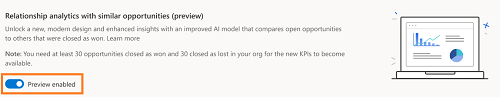
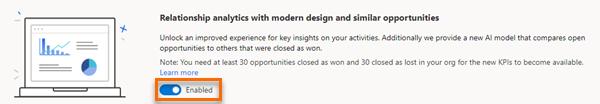
RA updated for GA

diff --git a/ai-docs/sales/configure-relationship-analytics.md b/ai-docs/sales/configure-relationship-analytics.md
@@ -1,6 +1,6 @@
 ---
-title: "Configure Relationship analytics for Dynamics 365 Sales Insights | MicrosoftDocs"
-description: "Learn how to configure Relationship analytics for Sales Insights"
+title: "Configure Relationship analytics and health for Dynamics 365 Sales Insights | MicrosoftDocs"
+description: "Learn how to configure Relationship analytics and health for Sales Insights"
 ms.date: 10/01/2019
 ms.service: crm-online
 ms.custom: 
@@ -16,7 +16,7 @@ caps.latest.revision: 01
 topic-status: Drafting
 ---
 
-# Configure relationship analytics
+# Configure relationship analytics and health
 
 Relationship analytics provides graphical representation of KPIs and activity histories for any contact, opportunity, lead, or account to the users. 
 
@@ -29,33 +29,36 @@ To configure relationship analytics, follow these steps:
     > [!div class="mx-imgBorder"]
     > ![Select Sales Insights settings option](media/si-admin-change-area-sales-insights-settings.png "Select Sales Insights settings option")
 
-3. On the site map, select **Relationship analytics** under **Connection insights**.
-
-    > [!TIP]
-    > Alternatively, in the **Sales Insights settings** page, select **Manage** from the **Relationship analytics** section to go to configuration page.
+3. On the site map, under **Relationship insights**, select **Relationship analytics**.
 
     The configuration page opens.
 
-4. Select the toggle to enable relationship analytics for your organization.
+4. Select the toggle to enable relationship analytics for your organization and then select **Save**.
 
     > [!div class="mx-imgBorder"]
     > ![Enable the relationship assistant for your organization](media/si-admin-relationship-analytics-enable-in-organization.png "Enable the relationship assistant for organization")
 
-    Relationship analytics is enabled in your organization, and you can configure the parameters as required.
+    >[!NOTE]
+    >**Data sources** and **Relationship analytics with modern design and similar opportunities** are enabled by default.
+
+    The application takes few seconds to enable relationship analytics for your organization. After the relationship analytics is enabled, you can configure the parameters as required.
 
 <a name="configure-similar-opportunities-preview"></a>
 
-5. (Optional) To enable the preview to view similar opportunities, under **Similar opportunities** on the **Relationship analytics** tab for opportunities, turn on the **Preview enabled** toggle.
+5. To view similar opportunities, under the **Relationship analytics with modern design and similar opportunities** section, turn on the **Enabled** toggle. By default, this option is enabled when you enable relationship analytics for your organization.
+
+    > [!div class="mx-imgBorder"]
+    > ![Enable to view similar opportunities](media/relationship-analytics-enable-preview-similar-opportunities.png "Enable to view similar opportunities")
 
     By enabling this option, users in your organization can see an improved relationship analytics tab for opportunities. The tab displays customer interaction KPIs along with suggestions calculated from similar won opportunities through AI-driven models.
 
+    If you don't want to view the similar opportunites in your organization, you can select the toggle and disable. The older version of relationship analytics is available for users.
+
+    For newly configured organizations, the enhanced relationship analytics is available by default for contacts, opportunities, leads, and accounts.
+
     >[!NOTE]
-    >- The preview feature is available only for the Opportunity entity.
     >- You must have at least 30 won and 30 lost opportunities to compare with existing opportunities.
     >- To understand how users use this feature, see [View similar opportunities](relationship-analytics.md#relationship-analytics-with-similar-opportunities).
-
-    > [!div class="mx-imgBorder"]
-    > ![Enable preview to view similar opportunities](media/relationship-analytics-enable-preview-similar-opportunities.png "Enable preview to view similar opportunities")
 
 6. To show the relationship health score in opportunities, views, and charts, set the toggle to **On**.
 
@@ -67,7 +70,7 @@ To configure relationship analytics, follow these steps:
 
 7. Adjust the importance of activities of different types as they contribute to the relationship health score.
 
-    Businesses place different emphasis on the type of communication used with customers.The activities includes, Emails, Meetings, Phone calls, and Tasks. 
+    Businesses place different emphasis on the type of communication used with customers. The activities include, Emails, Meetings, Phone calls, and Tasks. 
     
     > [!div class="mx-imgBorder"]
     > ![Adjust activity influence for relationship health](media/relationship-analytics-relationship-health-adjust-activity.png "Adjust activity influence for relationship health")
@@ -83,9 +86,11 @@ To configure relationship analytics, follow these steps:
 
    Relationship analytics is ready to use in your organization.
 
-Enable the **Dynamics 365 Sales Insights – Analytics** option in the admin center to collect valuable information regarding communications&mdash;such as emails and meetings&mdash;for users in your organization from Exchange server. This data is used in analytics features for salespeople and sales managers. When you enable this, the **Exchange Data** option on the relationship analytics configuration page is automatically selected. 
+## Allow to collect information from Exchange server 
 
-To enable Dynamics 365 Sales Insights – Analytics, follow these steps: 
+Enable the **Dynamics 365 Sales Insights – Analytics** option in the admin center to collect valuable information about communications&mdash;such as emails and meetings&mdash;for users in your organization from Exchange server. This data is used in analytics features for salespeople and sales managers. When you enable, the **Exchange Data** option on the relationship analytics configuration page is automatically selected. 
+
+Follow these steps: 
 
 1. Go to the **Admin** center.
 

diff --git a/ai-docs/sales/relationship-analytics.md b/ai-docs/sales/relationship-analytics.md
@@ -116,18 +116,11 @@ You can view complete relationship analytics for an individual record, including
 
 ## Relationship analytics with similar opportunities 
 
-[!INCLUDE [cc-beta-prerelease-disclaimer](../includes/cc-beta-prerelease-disclaimer.md)]
-
-> [!IMPORTANT]
-> - [!INCLUDE[cc_preview_features_definition](../includes/cc-preview-features-definition.md)]  
-> - [!INCLUDE[cc_preview_features_expect_changes](../includes/cc-preview-features-expect-changes.md)]
-> - Microsoft doesn't provide support for this preview feature. Microsoft Technical Support won’t be able to help you with issues or questions. Preview features aren't meant for production use and are subject to a separate [supplemental terms of use](https://go.microsoft.com/fwlink/p/?linkid=870960).
-
-Enhanced relationship analytics is provided to you as a preview. An administrator must enable the feature before you can start using it. More information: [step 5 in Configure Relationship analytics](configure-relationship-analytics.md#configure-similar-opportunities-preview)
-
 The current relationship analytics provides information such as graphs, KPIs, email interaction history, full activity history, and relationship health. This information doesn't offer a comparison with similar deals that were won, what's working, or what isn't working in the deal's engagement practices.
 
 As a seller, it's important for you to understand what's working better for a deal and learn about the best engagement practices from similar deals that were won in the past. The enhanced relationship analytics displays comparable information on the KPIs, graphs, activity history, and relationship health with similar deals that were won. Also, a list of similar deals that were won is displayed at the bottom. By opening the deals, you can learn what has worked and what didn't work, and implement these learnings in the deal you're currently trying to close.
+
+An administrator must enable the feature before you can start using it. More information: [step 5 in Configure relationship analytics](configure-relationship-analytics.md#configure-similar-opportunities-preview)
 
 The following screen is an example of enhanced relationship analytics:
 
@@ -220,14 +213,14 @@ After the system has found all the relevant activities, it's ready to calculate 
 ||Initiated or completed by your team|Initiated or completed by the customer's team|  
 |-|-----------------------------------------|---------------------------------------------------|  
 |Emails|Total number<br /><br /> Total time spent<br /><br /> Time line (number per week)<br /><br /> Number of replies|Total number<br /><br /> Total time spent<br /><br /> Time line (number per week)<br /><br /> Number of replies<br /><br /> Interaction results for followed emails (opens, attachment views, and link views)|  
-|Appointments|Total number<br /><br /> Total time spent by your team (if several team members were present at an appointment, then the duration is multiplied by the number of  team members  present)<br /><br /><!-- Total time spent by you (not multiplied by the number of team members)<br />--> Time line (number per week)|Total number<br /><br /> Total time spent (not multiplied by the number of customer contacts that were present)<br /><br /> Time line (number per week)|  
+|Appointments|Total number<br /><br /> Total time spent by your team (if several team members were present at an appointment, then the duration is multiplied by the number of  team members  present)<br /><br /> Time line (number per week)|Total number<br /><br /> Total time spent (not multiplied by the number of customer contacts that were present)<br /><br /> Time line (number per week)|  
 |Phone calls|Total number<br /><br /> Total time spent<br /><br /> Time line (number per week)|Total number<br /><br /> Total time spent<br /><br /> Time line (number per week)|  
 |Overall (all activities)|Total time spent|Total time spent|  
 
 > [!NOTE]
 > Email interaction statistics are only provided for *followed emails*, which requires you to use the *email engagement* feature. For more information about how to create and send followed emails, see [View message interactions with email engagement](email-engagement.md)  
 
- For KPIs that report <!--time spent by you,--> your team and your customer, the system finds durations by applying the rules outlined in the following table:  
+ For KPIs that report your team and your customer, the system finds durations by applying the rules outlined in the following table:  
 
 |Activity type|Source of duration value|  
 |-------------------|------------------------------|  
@@ -238,10 +231,7 @@ After the system has found all the relevant activities, it's ready to calculate 
 
 > [!TIP]
 > The time calculations for appointments are bit special. The details are given in the previous tables, but here's an example to illustrate it.  
-> 
 > If you hold an appointment where three members of your team (including you) meet with two members of your customer's team, and the appointment lasts for 30 minutes, then that appointment contributes to your time KPIs as follows:  
-> 
-> <!-- - **Time spent by me**: *30 minutes* (the appointment was 30 minutes) --> 
 > - **Time spent by my team**: *90 minutes* (30 min. × 3 team members present)  
 > - **Time spent by the customer**: *30 minutes* (time isn't multiplied by customer participants)  
 

diff --git a/ai-docs/sales/TOC.md b/ai-docs/sales/TOC.md
@@ -23,7 +23,7 @@
 #### [Configure notes analysis](configure-notes-analysis.md)
 
 ### Configure Connection insights
-#### [Configure relationship analytics](configure-relationship-analytics.md)
+#### [Configure relationship analytics and health](configure-relationship-analytics.md)
 #### [Configure talking points](configure-talking-points.md)
 #### [Configure who knows whom](configure-who-knows-whom.md)
 
